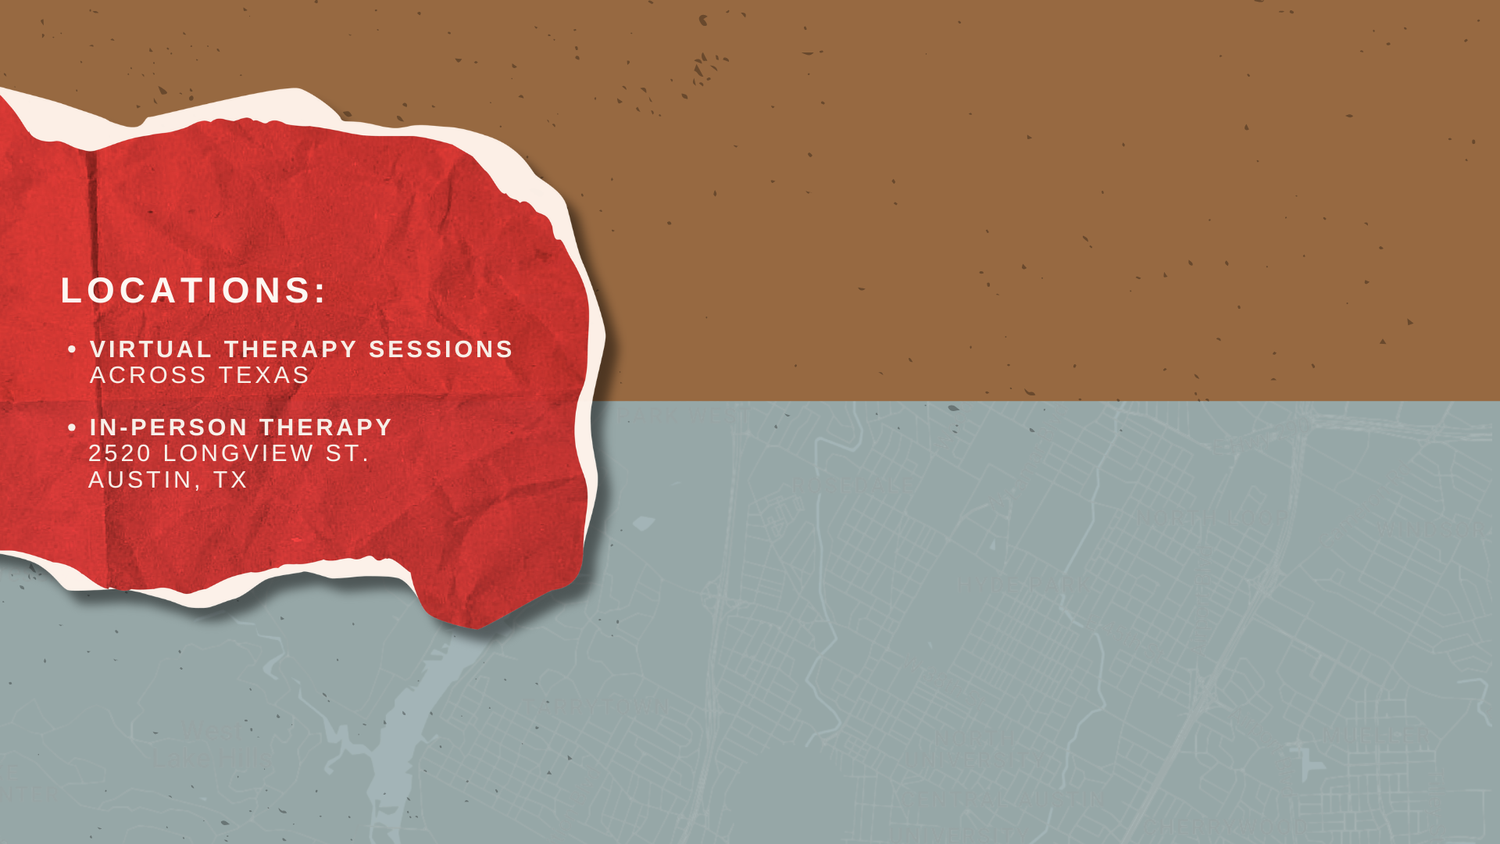
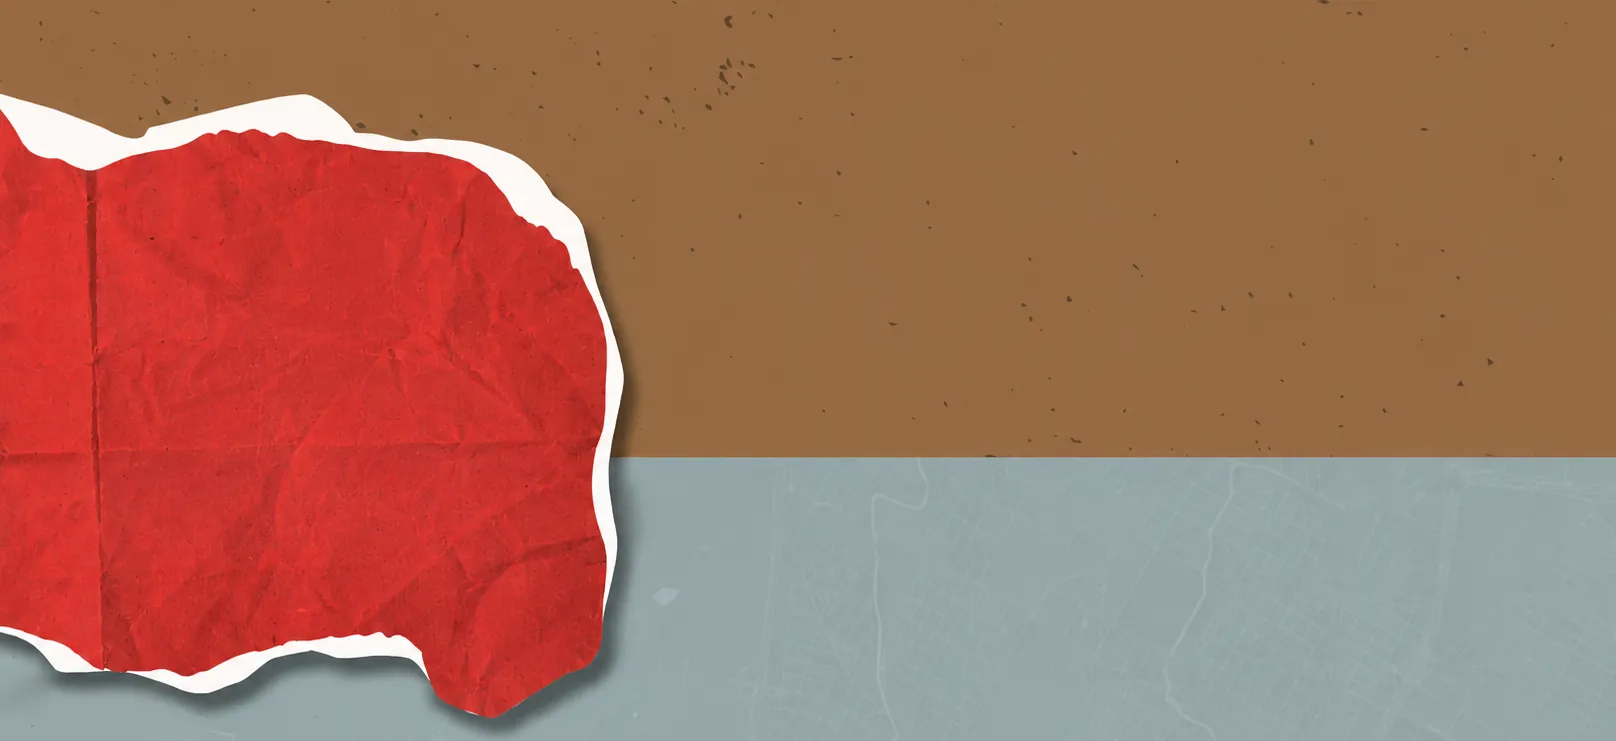
Location fixes: pin headline to bottom-right, working map embed, lighter assets
Headline now anchors at bottom-[4%] right-[4%] of the banner. Map embed
switched from the unresolved placeholder-address query to coordinates
resolved from the user-supplied maps link (43.6548253,-79.388447, z=15)
in site.mapQuery/mapZoom, with a fixed 550x500 desktop frame.
Recompressed location_banner_bg.webp 1.3MB -> 30KB and location_map_bg
29KB -> 14KB (quality 80).

diff --git a/components/sections/LocationMap.tsx b/components/sections/LocationMap.tsx
@@ -3,14 +3,11 @@ import { site } from "@/lib/site";
 /**
  * Section 11 — Location map: the muted slate-teal street-map texture
  * continuing directly from the banner above, with a centered, framed
- * interactive Google Maps embed pointing at the practice address from
- * site config (placeholder address → centers on the Austin area until
- * the real one is set). Keyless embed: standard light-mode street map
- * with zoom controls, pannable inside its rounded, bordered frame.
+ * interactive Google Maps embed centered on the coordinates from
+ * site.mapQuery (keyless embed: light-mode street map, zoom controls,
+ * pannable inside its rounded, bordered frame).
  */
 export default function LocationMap() {
-  const query = encodeURIComponent(site.addressLines.join(", "));
-
   return (
     <section className="relative w-full overflow-hidden py-16 md:py-24">
       <div
@@ -19,10 +16,10 @@ export default function LocationMap() {
       />
 
       <div className="relative flex w-full items-center justify-center">
-        <div className="aspect-square w-[90%] max-w-[360px] overflow-hidden rounded-lg border border-white/20 shadow-xl md:h-[500px] md:w-full md:max-w-[550px]">
+        <div className="aspect-square w-[90%] max-w-[360px] overflow-hidden rounded-lg border border-white/20 shadow-xl md:h-[500px] md:w-[550px] md:max-w-none">
           <iframe
             title="Map to the office"
-            src={`https://www.google.com/maps?q=${query}&z=15&output=embed`}
+            src={`https://www.google.com/maps?q=${site.mapQuery}&z=${site.mapZoom}&output=embed`}
             className="h-full w-full border-0"
             loading="lazy"
             referrerPolicy="no-referrer-when-downgrade"

diff --git a/components/sections/LocationBanner.tsx b/components/sections/LocationBanner.tsx
@@ -45,8 +45,8 @@ export default function LocationBanner() {
           </ul>
         </div>
 
-        {/* Serif headline over the teal map, lower right */}
-        <h3 className="absolute bottom-[7%] right-[5%] text-left font-display text-[7vw] font-semibold uppercase leading-[1.05] text-[#F5EBE6] md:bottom-[8%] md:text-[3vw]">
+        {/* Serif headline pinned to the bottom-right corner over the teal map */}
+        <h3 className="absolute bottom-[4%] right-[4%] text-left font-display text-[7vw] font-semibold uppercase leading-[1.05] text-[#F5EBE6] md:bottom-[5%] md:text-[3vw]">
           {locationBanner.headline.map((line) => (
             <span key={line} className="block">
               {line}

diff --git a/lib/site.ts b/lib/site.ts
@@ -12,6 +12,10 @@ export const site = {
   email: "hello@mykahani.example.com",
   hours: "Mon–Fri · 9:00 AM – 6:00 PM CT",
   virtual: "Virtual sessions anywhere in Texas",
+  // Temporary map location (user-supplied link) — replace with the
+  // practice's real coordinates or street address when finalized.
+  mapQuery: "43.6548253,-79.388447",
+  mapZoom: 15,
   copyrightName: "My Kahani Counseling, PLLC",
   credits: "Designed & built with care",
 };
